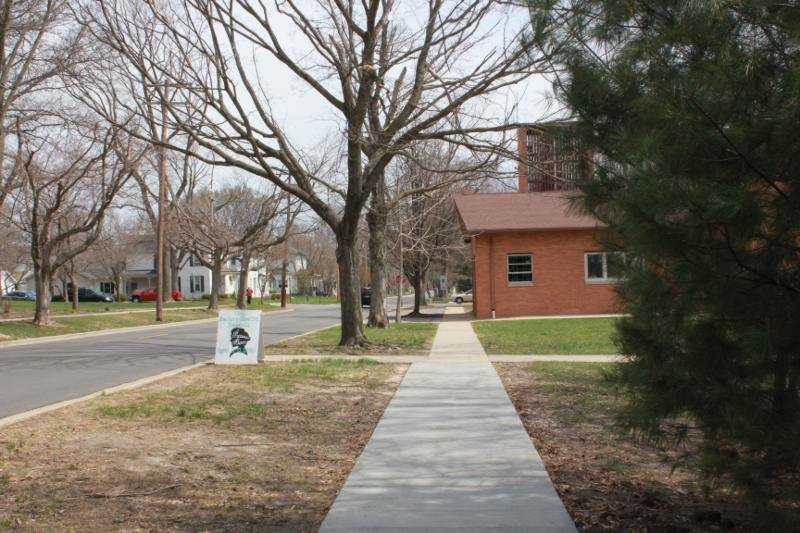
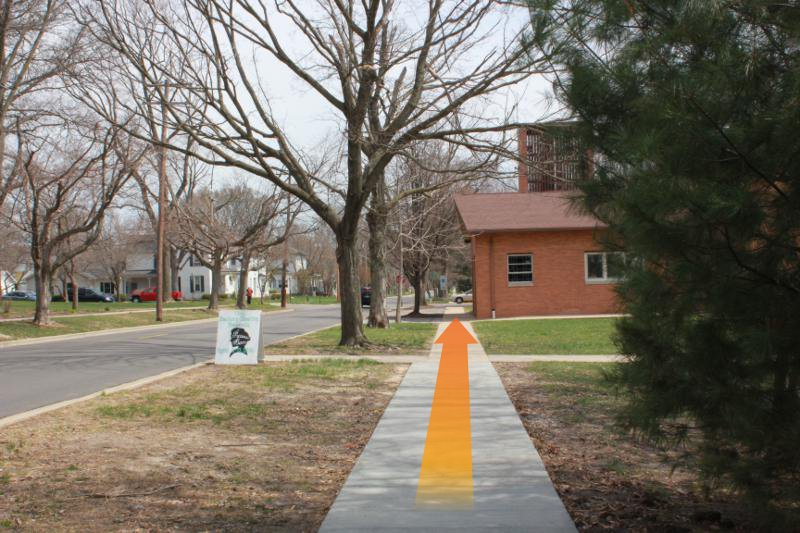
Navigation now works. Added arrows to images.

Changed region(s): [[0.5, 0.6004, 0.5938, 0.9606]]

diff --git a/www/guided-tour.html b/www/guided-tour.html
@@ -1,6 +1,7 @@
 <!DOCTYPE html>
 <html>
-    <head>
+
+<head>
     <meta charset="utf-8" />
     <meta name="format-detection" content="telephone=no" />
     <link rel="stylesheet" src="css/bootstrap.min.css" />
@@ -10,106 +11,112 @@
     <script type="text/javascript" src="js/makeRequest.js"></script>
     <script type="text/javascript" src="js/jQuery.js"></script>
     <link rel="stylesheet" type="text/css" href="css/index.css" />
-    </head>
-    <body>
-        <div class="off-canvas-wrap" data-offcanvas>
-  <div class="inner-wrap">
-    <nav class="tab-bar">
-      <section class="left-small">
-        <i class="fi-arrow-left size-36 back-arrow" onclick="goBack()"></i>
-      </section>
+</head>
 
-      <section class="middle tab-bar-section">
-          <div class="logo">
-              </div>
-      </section>
-<section class="right-small">
-        <a class="right-off-canvas-toggle menu-icon" ><span></span></a>
-      </section>
-    </nav>
+<body>
+    <div class="off-canvas-wrap" data-offcanvas>
+        <div class="inner-wrap">
+            <nav class="tab-bar">
+                <section class="left-small">
+                    <i class="fi-arrow-left size-36 back-arrow" onclick="goBack()"></i>
+                </section>
 
-    <aside class="right-off-canvas-menu">
-      <ul class="off-canvas-list">
-        <li><a href="self-guided-tour.html">Self-Guided Tour</a></li>
-        <li><a href="guided-tour.html">Guided Tour</a></li>
-        <li><a href="buildingList.html">Building Info</a></li>
-        <li><a href="ApplyOnline.html">Apply Online</a></li>
-        <li><a href="ContactUs.html">Contact Us</a></li>
-      </ul>
-    </aside>
+                <section class="middle tab-bar-section">
+                    <div class="logo">
+                    </div>
+                </section>
+                <section class="right-small">
+                    <a class="right-off-canvas-toggle menu-icon"><span></span></a>
+                </section>
+            </nav>
 
-    <section class="main-section">
+            <aside class="right-off-canvas-menu">
+                <ul class="off-canvas-list">
+                    <li><a href="self-guided-tour.html">Self-Guided Tour</a>
+                    </li>
+                    <li><a href="guided-tour.html">Guided Tour</a>
+                    </li>
+                    <li><a href="buildingList.html">Building Info</a>
+                    </li>
+                    <li><a href="ApplyOnline.html">Apply Online</a>
+                    </li>
+                    <li><a href="ContactUs.html">Contact Us</a>
+                    </li>
+                </ul>
+            </aside>
+
+            <section class="main-section">
 
 
-        <div id="navImage">
-        <p>You are out of bounds, please move back onto the tour path.</p>
+                <div id="navImage">
+                    <p>You are out of bounds, please move back onto the tour path.</p>
+                </div>
+
+
+            </section>
+            <a class="exit-off-canvas"></a>
+
         </div>
-
-
-             </section>
-  <a class="exit-off-canvas"></a>
-
-  </div>
-</div>
-            <script src="bower_components/jquery/dist/jquery.min.js"></script>
+    </div>
+    <script src="bower_components/jquery/dist/jquery.min.js"></script>
     <script src="bower_components/foundation/js/foundation.min.js"></script>
     <script src="js/app.js"></script>
     <script src="js/guided.js"></script>
-        <script>
-        jQuery(document).ready(function($){
+    <script>
+        jQuery(document).ready(function($) {
             makeRequest(guidedNav);
-        var positionArray = [
-            [38.53556, -89.24565],
-            [38.53564, -89.24565],
-            [38.53563, -89.24552],
-            [38.53563, -89.24529],
-            [38.53563, -89.24517],
-            [38.53563, -89.24496],
-            [38.53565, -89.24478]
-        ];
-        if (navigator.geolocation){
-            var watchID = navigator.geolocation.watchPosition(onSuccess, onError, { enableHighAccuracy:true, timeout: 30000 });
-            //navigator.geolocation.getCurrentPosition(onSuccess, onError, { enableHighAccuracy:true });
-        }
-        else{}
+            var positionArray = [
+                [38.892608, -89.409455],
+                [38.892710, -89.409423],
+                [38.892717, -89.409208],
+                [38.892705, -89.409118],
+                [38.892677, -89.408666],
+                [38.892719, -89.408422],
+                [38.892691, -89.407946]
+            ];
+            if (navigator.geolocation) {
+                var watchID = navigator.geolocation.watchPosition(onSuccess, onError, {
+                    enableHighAccuracy: true,
+                    timeout: 30000
+                });
+                //navigator.geolocation.getCurrentPosition(onSuccess, onError, { enableHighAccuracy:true });
+            } else {}
             var outOfBounds = 0;
             var j = 0;
             var eventListener = 0;
             var imgArray = getImages();
-        function onSuccess(position) {
-            var currentPos = [position.coords.latitude, position.coords.longitude];
-            if (j < 7)
-            {
-            if (currentPos[0] > positionArray[j][0]-.00006 && currentPos[0] < positionArray[j][0]+.00006 && currentPos[1] > positionArray[j][1]-.00005 && currentPos[1] < positionArray[j][1]+.00005){
-                outOfBounds = 0;
-                var imageLink = "<img src='" + imgArray[j] + "'>";
-                document.getElementById('navImage').innerHTML = imageLink;
-                ++j;
-            }
-            else {
 
-                    ++j;
-                    window.setTimeout(onSuccess(position),1000);
+            function onSuccess(position) {
+                var currentPos = [position.coords.latitude, position.coords.longitude];
+                if (j < 7) {
+                    if (currentPos[0] > positionArray[j][0] - .00006 && currentPos[0] < positionArray[j][0] + .00006 && currentPos[1] > positionArray[j][1] - .00005 && currentPos[1] < positionArray[j][1] + .00005) {
+                        outOfBounds = 0;
+                        var imageLink = "<img src='" + imgArray[j] + "'>";
+                        document.getElementById('navImage').innerHTML = imageLink;
+                        ++j;
+                    } else {
+
+                        ++j;
+                        window.setTimeout(onSuccess(position), 1000);
+                        return;
+                    }
+                } else {
+                    resetCounter();
                     return;
                 }
             }
-           else {
-               resetCounter();
-                    if (outOfBounds == 0){
-                        onSuccess(position);
-                        outOfBounds = 1;
-                    }
-               return;
-            }
-        }
-        function onError(error) {
-             alert('code: ' + error.code + '\n' + 'message: ' + error.message + '\n');
-        }
 
-            function resetCounter(){
+            function onError(error) {
+                alert('code: ' + error.code + '\n' + 'message: ' + error.message + '\n');
+            }
+
+            function resetCounter() {
                 j = 0;
             }
-            });
-            </script>
-    </body>
+
+            function alertCoords(position) {}
+        });
+    </script>
+</body>
+
 </html>
